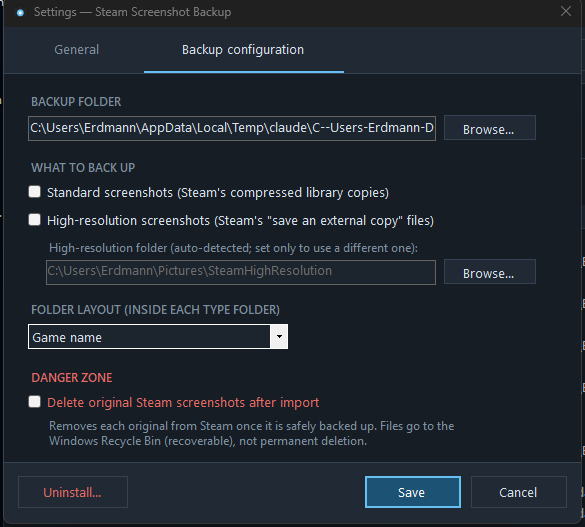
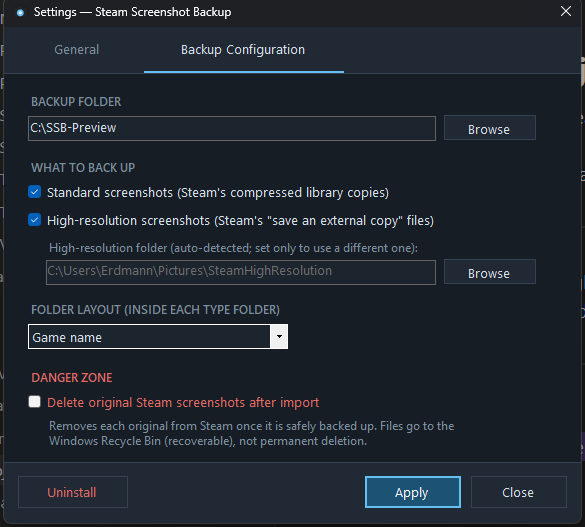
Update README and screenshots for the v3.7.0 UI polish sprint
Regenerated docs/img screenshots to match the new Apply/Close buttons,
Granular Deletion rename, Title Case labels, and row polish. Updated
README wording to match. Also fixed two real bugs found while testing
the installer: TypeLabel() returned "High resolution" (lowercase r,
inconsistent with the rest of the Title Case pass elsewhere), and
WizardStyle=modern silently defaults DisableWelcomePage to yes, which
was skipping the installer's Welcome page entirely - now forced back on.
An attempted inline light/dark theme toggle button on that page did not
render reliably in this environment and was reverted; the installer
still opens dark by default matching the app.

diff --git a/app/BackupEngine.cs b/app/BackupEngine.cs
@@ -337,7 +337,7 @@ namespace SteamScreenshotBackup
             t == ScreenshotType.Standard ? StandardFolder : HighResFolder;
 
         public static string TypeLabel(ScreenshotType t) =>
-            t == ScreenshotType.Standard ? "Standard" : "High resolution";
+            t == ScreenshotType.Standard ? "Standard" : "High Resolution";
 
         // 20260706210532_1.jpg / 646570_20260706210532_1.png -> "2026-07-06 21.05.32.ext"
         private static (DateTime Ts, string Name) ConvertName(string fileName, ScreenshotType type)

diff --git a/README.md b/README.md
@@ -33,17 +33,17 @@ Steam Screenshots/
 
 ![The Utilities menu's targeted deletion window: a checkbox tree by backup type, game, and file](docs/img/targeted-delete.png)
 
-*Utilities → Delete specific files/folders — pick exactly which backup files to remove.*
+*Utilities → Granular Deletion — pick exactly which backup files to remove.*
 
 <details>
 <summary>More screenshots (Settings, Game Names, tray menu, installer, preview)</summary>
 
 <p align="center">
   <img src="docs/img/settings-general.png" alt="Settings window, General tab" width="49%">
-  <img src="docs/img/settings-backup.png" alt="Settings window, Backup configuration tab" width="49%">
+  <img src="docs/img/settings-backup.png" alt="Settings window, Backup Configuration tab" width="49%">
 </p>
 
-*Settings — General (left) and Backup configuration (right).*
+*Settings — General (left) and Backup Configuration (right). Apply saves without closing the window; Close just closes it.*
 
 <p align="center">
   <img src="docs/img/tray-menu.png" alt="Right-click tray menu" width="34%">
@@ -149,12 +149,14 @@ Uninstall option cleans up after itself.
 - **Re-Sync** reviews everything in Steam that's missing from your backup,
   grouped by game, so you can restore just what you pick.
 - **Settings** has two tabs: *General* (theme, notifications, startup, the
-  Markdown index) and *Backup configuration* (folder, screenshot types,
-  layout, and the danger zone).
+  Markdown index) and *Backup Configuration* (folder, screenshot types,
+  layout, and the danger zone). **Apply** saves in the background without
+  closing the window, so you can keep adjusting settings; **Close** just
+  closes it.
 - **Game Names** fixes delisted or non-Steam games by hand, or opens the
   tracking file directly.
-- **Utilities** has one-click bulk cleanup and a window for picking exactly
-  which files to delete.
+- **Utilities** has one-click bulk cleanup and **Granular Deletion**, a
+  checkbox tree for picking exactly which backup files to remove.
 
 ### High-resolution screenshots
 
